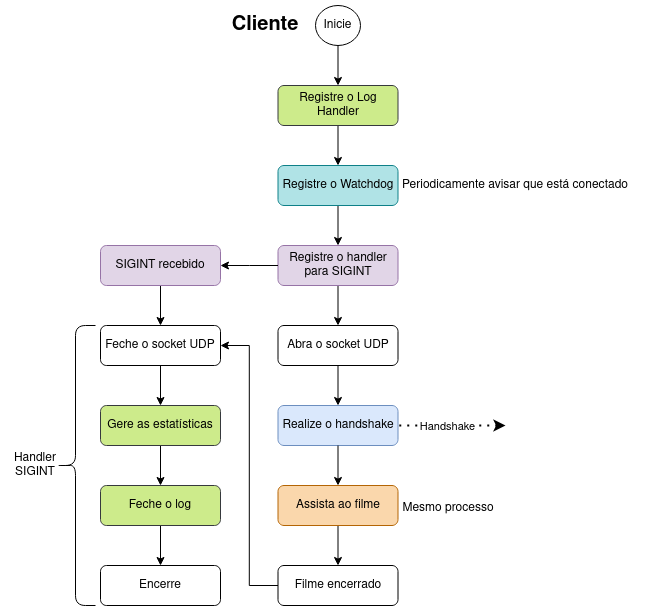
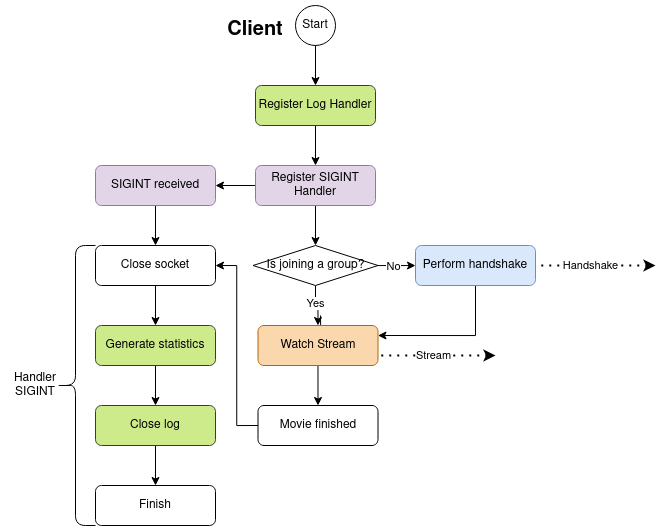
Updated handshake in readme

diff --git a/README.md b/README.md
@@ -194,16 +194,10 @@ the client by overloading them with requests/responses.
   starting to stream.
 * After a stream has started, no other member can join, neither the stream can be
   paused.
-* When connection between server and client is lost, it isn't known until the
-  timeout for the socket expires. 
 * When a client loses connection to the server, the other clients in the group
   are not notified.
-* The handshake phase has an overhead in the packets send and in the retries when
-  the client can't bind to the same port as the server.
-* It works only for IPv4 addresses.
-* If the server reaches it's maximum number of simultaneaous groups streamings,
-  new requests are dicarded and the client won't know the reason, only that it
-  didn't receive an answer from server.
+* The port is negotiated only with the leader, other clients in the same stream
+  won't be able to watch it if they are using that port for something else,
 
 # Implementation
 ## Modules
@@ -213,8 +207,18 @@ the client by overloading them with requests/responses.
 ### Client
 ![client](./images/client.png)
 
+### Handshake
+#### Server
+![server handshake](./images/handshake-server.png)
+
+#### Client
+![client handshake](./images/handshake-client.png)
 To avoid trying to connect indefinitly to the server, the client has a limit to
 the number of attempts to try to establish the handshake.
+
+### Stream
+
+The interval between stream packets has a maximum and minimum thresholds.
 
 ### Sockets
 ### Watchdog
@@ -250,42 +254,3 @@ Estrutura de arquivos:
         |-----statistics.py
 ```
 
-# Timeline
-*Ir testando!!!!*
-projeto -> log, watchdog, sockets -> handshake -> registration -> stream ->
-statistics -> main
-
-# TODO/Questionamentos
-* [ ] Talvez seja melhor alocar uma porta para o grupo, negociada só com o líder
-  e os outros clientes acessam ela, cria um novo processo. Fase de criar o
-  grupo, novo processo para esperar o registro dos outros membros. (limitação: a
-  porta é negociada só com o líder, talvez algum cliente não possa usar ela)
-* [ ] Espera os outros membros na transmissão nova
-* [ ] Na transmissão colocar a etapa de registro, o líder manda a lista nessa
-  etapa
-* [ ] A parte de escolher o intervalo vai ter que ir para o registration
-* [ ] Intervalo muito alto
-* [ ] Mudar o intervalo para miliseconds, qual o menor valor possível?
-
-* [ ] Pedir para entrar em um grupo que não existe ainda
-* [ ] No handshake, tem que criar um pacote "Estou vivo", tanto para o
-  servidor/cliente quanto para o cliente/servidor
-* [ ] O IP já está em um grupo, tem problema? (como lider/lider, lider/membro,
-  membro/membro, membro/líder)
-* [ ] Qualquer cliente pode ficar chutando o watchdog do grupo
-* [ ] Create group ok/nok sem que o grupo exista ainda
-* [ ] Mais de um create group ok/nok para um grupo que já existe (ok/ok, ok/nok, nok/nok, nok/ok)
-* [ ] Create group OK/NOK de alguém que não é o líder
-
-* [ ] Como sincronizar a tranmissão de um mesmo stream para múltiplos clientes?
-
-* [ ] Vai ter que ter o ack pelo menos para o handshake e pacotes de
-  controle.Talvez para a transmissão seja mais fácil com o ack também
-* [ ] Vai precisar confirmar os pacotes de controle e tratar pacotes de controle
-  retransmitidos
-
-* [ ] Mudar os fluxogramas para inglês
-
-* [ ] Protocol: handshake líder -> registration -> stream
-
-* [ ] Falta entender como reproduzir o filme
